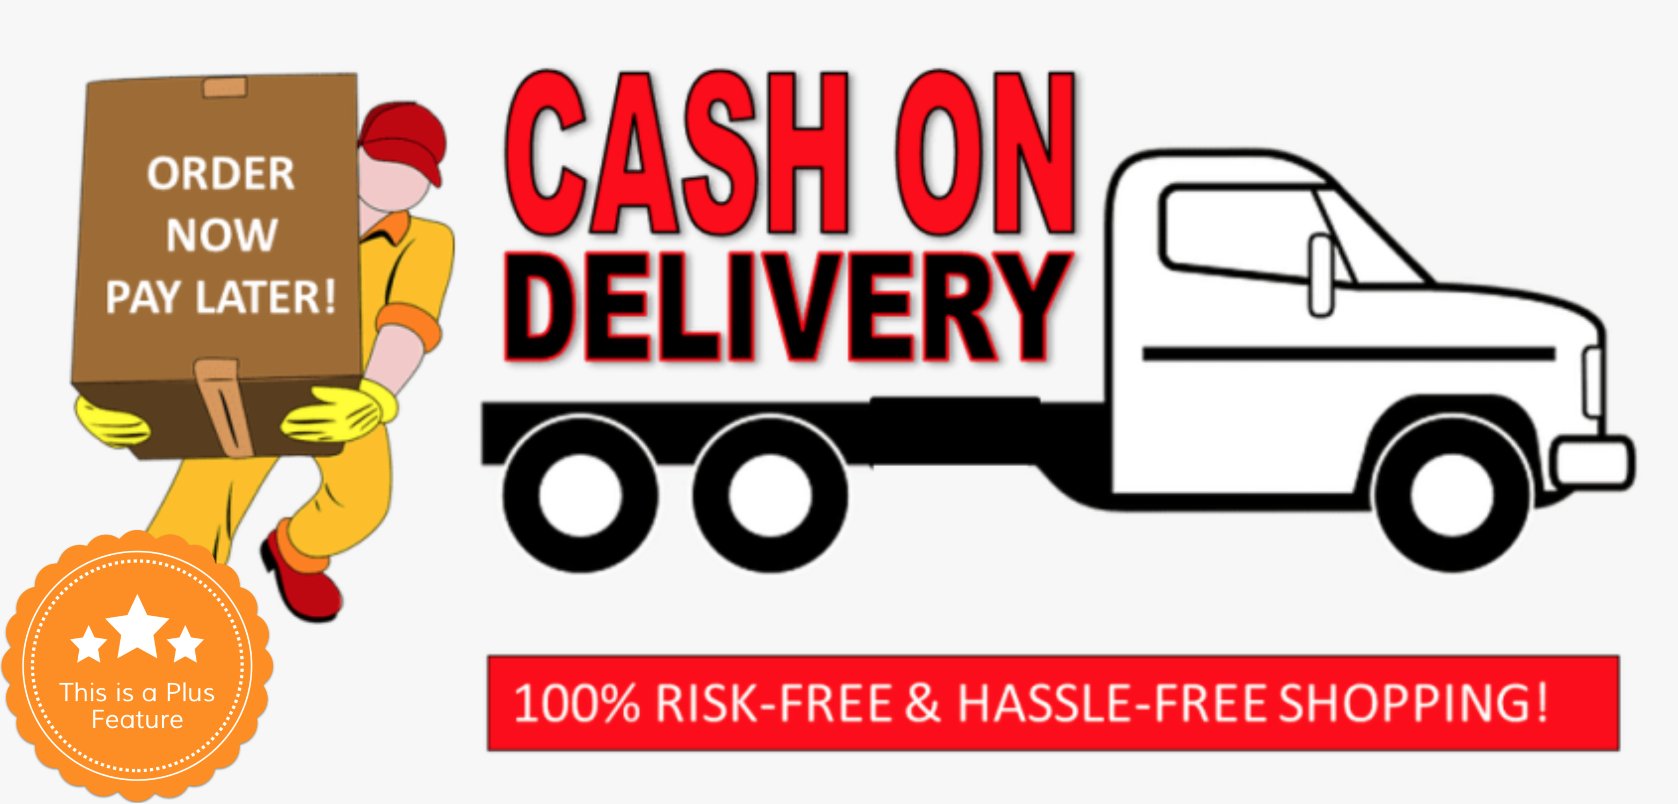
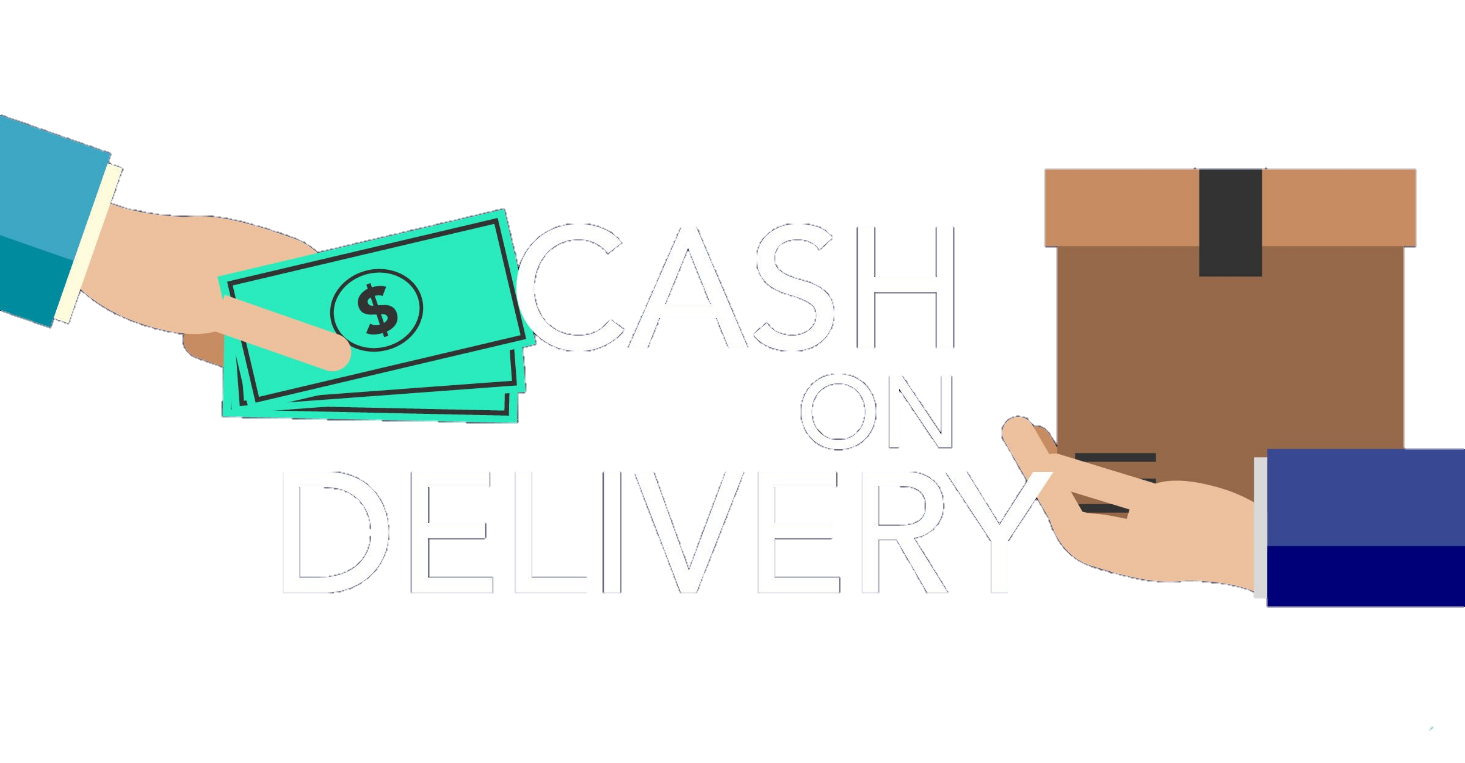
New Version...

diff --git a/lib/Orders/placeOrderPaymentPage.dart b/lib/Orders/placeOrderPaymentPage.dart
@@ -1,26 +1,142 @@
+import 'package:cloud_firestore/cloud_firestore.dart';
 import 'package:e_shop/Config/config.dart';
 import 'package:e_shop/Store/storehome.dart';
 import 'package:e_shop/Counters/cartitemcounter.dart';
+import 'package:e_shop/main.dart';
 import 'package:firebase_auth/firebase_auth.dart';
+import 'package:flutter/cupertino.dart';
 import 'package:flutter/material.dart';
+import 'package:fluttertoast/fluttertoast.dart';
 import 'package:provider/provider.dart';
 
 class PaymentPage extends StatefulWidget {
   final String addressId;
   final double totalAmount;
 
-  const PaymentPage({Key key, this.addressId, this.totalAmount}) : super(key: key);
+  const PaymentPage({Key key, this.addressId, this.totalAmount})
+      : super(key: key);
 
   @override
   _PaymentPageState createState() => _PaymentPageState();
 }
 
-
-
-
 class _PaymentPageState extends State<PaymentPage> {
   @override
   Widget build(BuildContext context) {
-    return Material();
+    return Material(
+      child: Container(
+        decoration: BoxDecoration(
+            gradient: LinearGradient(
+          colors: [Colors.blue[700], Colors.white],
+          begin: const FractionalOffset(0, 0),
+          end: const FractionalOffset(1, 1),
+          stops: [0, 1],
+          tileMode: TileMode.clamp,
+        )),
+        child: Center(
+          child: Column(
+            mainAxisAlignment: MainAxisAlignment.center,
+            children: [
+              Padding(
+                padding: EdgeInsets.all(0),
+                child: Image.asset("assets/images/cash.png"),
+              ),
+              SizedBox(
+                height: 10,
+              ),
+              InkWell(
+                onTap: () => addOrderDetails(),
+                child: Container(
+                  margin: EdgeInsets.only(left: 40, right: 40, top: 30),
+                  decoration: BoxDecoration(
+                    borderRadius: BorderRadius.circular(20),
+                    color: Colors.blue[700],
+                  ),
+                  height: 50,
+                  child: Center(
+                    child: Text(
+                      "Place Order",
+                      style: TextStyle(
+                          color: Colors.white,
+                          fontWeight: FontWeight.bold,
+                          fontSize: 24,
+                          letterSpacing: 1),
+                    ),
+                  ),
+                ),
+              ),
+            ],
+          ),
+        ),
+      ),
+    );
+  }
+
+  addOrderDetails() {
+    writeOrderDetailsForUser({
+      EcommerceApp.addressID: widget.addressId,
+      EcommerceApp.totalAmount: widget.totalAmount,
+      "orderBy": EcommerceApp.sharedPreferences.getString(EcommerceApp.userUID),
+      EcommerceApp.productID: EcommerceApp.sharedPreferences
+          .getStringList(EcommerceApp.userCartList),
+      EcommerceApp.paymentDetails: "Cash on Delivery",
+      EcommerceApp.orderTime: DateTime.now().millisecondsSinceEpoch.toString(),
+      EcommerceApp.isSuccess: true,
+    });
+
+    writeOrderDetailsForAdmin({
+      EcommerceApp.addressID: widget.addressId,
+      EcommerceApp.totalAmount: widget.totalAmount,
+      "orderBy": EcommerceApp.sharedPreferences.getString(EcommerceApp.userUID),
+      EcommerceApp.productID: EcommerceApp.sharedPreferences
+          .getStringList(EcommerceApp.userCartList),
+      EcommerceApp.paymentDetails: "Cash on Delivery",
+      EcommerceApp.orderTime: DateTime.now().millisecondsSinceEpoch.toString(),
+      EcommerceApp.isSuccess: true,
+    }).whenComplete(() => {emptyCartNow()});
+  }
+
+  Future writeOrderDetailsForUser(Map<String, dynamic> data) async {
+    await EcommerceApp.fireStore
+        .collection(EcommerceApp.collectionUser)
+        .document(
+            EcommerceApp.sharedPreferences.getString(EcommerceApp.userUID))
+        .collection(EcommerceApp.collectionOrders)
+        .document(
+            EcommerceApp.sharedPreferences.getString(EcommerceApp.userUID) +
+                data['orderTime'])
+        .setData(data);
+  }
+
+  Future writeOrderDetailsForAdmin(Map<String, dynamic> data) async {
+    await EcommerceApp.fireStore
+        .collection(EcommerceApp.collectionOrders)
+        .document(
+            EcommerceApp.sharedPreferences.getString(EcommerceApp.userUID) +
+                data['orderTime'])
+        .setData(data);
+  }
+
+  emptyCartNow() {
+    EcommerceApp.sharedPreferences
+        .setStringList(EcommerceApp.userCartList, ["garbageValue"]);
+    List tempList =
+        EcommerceApp.sharedPreferences.getStringList(EcommerceApp.userCartList);
+
+    Firestore.instance
+        .collection("users")
+        .document(
+            EcommerceApp.sharedPreferences.getString(EcommerceApp.userUID))
+        .updateData({
+      EcommerceApp.userCartList: tempList,
+    }).then((value) {
+      EcommerceApp.sharedPreferences
+          .setStringList(EcommerceApp.userCartList, tempList);
+      Provider.of<CartItemCounter>(context, listen: false).displayResult();
+    });
+    Fluttertoast.showToast(
+        msg: "Congratulation, your Order has been placed successfully.");
+    Route route = MaterialPageRoute(builder: (c) => SplashScreen());
+    Navigator.pushReplacement(context, route);
   }
 }

diff --git a/lib/main.dart b/lib/main.dart
@@ -2,7 +2,9 @@ import 'dart:async';
 import 'package:cloud_firestore/cloud_firestore.dart';
 import 'package:e_shop/Counters/ItemQuantity.dart';
 import 'package:firebase_auth/firebase_auth.dart';
+import 'package:flutter/cupertino.dart';
 import 'package:flutter/material.dart';
+import 'package:flutter/widgets.dart';
 import 'package:provider/provider.dart';
 import 'package:shared_preferences/shared_preferences.dart';
 import 'Authentication/authenication.dart';
@@ -77,6 +79,7 @@ class _SplashScreenState extends State<SplashScreen> {
   Widget build(BuildContext context) {
     return Material(
       child: Container(
+        height: MediaQuery.of(context).size.height,
         decoration: BoxDecoration(
             gradient: LinearGradient(
           colors: [Colors.blue[700], Colors.white],
@@ -85,28 +88,25 @@ class _SplashScreenState extends State<SplashScreen> {
           stops: [0, 1],
           tileMode: TileMode.clamp,
         )),
-        child: Center(
-          child: Column(
-            mainAxisAlignment: MainAxisAlignment.center,
-            children: [
-              Image.asset(
-                "assets/images/welcome.png",
-              ),
-              SizedBox(
-                height: 20,
-              ),
-              Padding(
-                padding: EdgeInsets.only(top: 30),
-                child: Text(
-                  "World's Largest & Number one online shop",
-                  style: TextStyle(
-                      color: Colors.white,
-                      fontSize: 18,
-                      fontWeight: FontWeight.bold),
-                ),
-              )
-            ],
-          ),
+        child: Column(
+          mainAxisAlignment: MainAxisAlignment.spaceBetween,
+          children: [
+            SizedBox(
+              height: 100,
+            ),
+            Text(
+              "Welcome to shop",
+              style: TextStyle(
+                  color: Colors.white,
+                  fontSize: 80,
+                  letterSpacing: 2,
+                  fontFamily: "Signatra"),
+            ),
+            Image.asset(
+              "assets/images/welcome.png",
+              height: 200,
+            ),
+          ],
         ),
       ),
     );

diff --git a/lib/Store/cart.dart b/lib/Store/cart.dart
@@ -67,10 +67,10 @@ class _CartPageState extends State<CartPage> {
                           width: MediaQuery.of(context).size.width * 0.5,
                           height: 40,
                           decoration: BoxDecoration(
-                            color: Colors.blue[50],
-                            borderRadius: BorderRadius.all(Radius.circular(20)),
-                            border: Border.all(color: Colors.blue)
-                          ),
+                              color: Colors.blue[50],
+                              borderRadius:
+                                  BorderRadius.all(Radius.circular(20)),
+                              border: Border.all(color: Colors.blue)),
                           child: Center(
                             child: Text(
                               "Total Price: ₪${amountProvider.totalAmount.toString()}",
@@ -139,18 +139,30 @@ class _CartPageState extends State<CartPage> {
   beginBuildingCart() {
     return SliverToBoxAdapter(
       child: Card(
+        shape: RoundedRectangleBorder(borderRadius: BorderRadius.circular(20)),
+        margin: EdgeInsets.only(left: 20, right: 20, top: 40),
         color: Theme.of(context).primaryColor.withOpacity(0.5),
         child: Container(
-          height: 100,
+          height: 120,
           child: Column(
             mainAxisAlignment: MainAxisAlignment.center,
             children: [
               Icon(
                 Icons.insert_emoticon,
                 color: Colors.white,
+                size: 40,
               ),
-              Text("Cart is  empty. "),
-              Text("Start adding items to your Cart. "),
+              SizedBox(
+                height: 10,
+              ),
+              Text(
+                "Cart is  empty. ",
+                style: TextStyle(fontSize: 18, fontWeight: FontWeight.bold),
+              ),
+              Text(
+                "Start adding items to your Cart. ",
+                style: TextStyle(fontSize: 18),
+              ),
             ],
           ),
         ),

diff --git a/lib/Admin/adminLogin.dart b/lib/Admin/adminLogin.dart
@@ -48,7 +48,7 @@ class _AdminSignInScreenState extends State<AdminSignInScreen> {
     double _screenWidth = MediaQuery.of(context).size.width;
     return SingleChildScrollView(
       child: Container(
-        height: MediaQuery.of(context).size.height,
+       // height: MediaQuery.of(context).size.height,
         decoration: BoxDecoration(
             gradient: LinearGradient(
           colors: [Colors.blue[700], Colors.white],
@@ -59,12 +59,13 @@ class _AdminSignInScreenState extends State<AdminSignInScreen> {
         )),
         child: Column(
           children: [
+            SizedBox(
+              height: 15,
+            ),
             Container(
               alignment: Alignment.bottomCenter,
               child: Image.asset(
                 "assets/images/admin.png",
-                height: 240,
-                width: 240,
               ),
             ),
             Padding(
@@ -150,9 +151,7 @@ class _AdminSignInScreenState extends State<AdminSignInScreen> {
                   style: TextStyle(
                       color: Colors.blue[700], fontWeight: FontWeight.bold)),
             ),
-            SizedBox(
-              height: 50,
-            ),
+            SizedBox(height: 50,)
           ],
         ),
       ),
